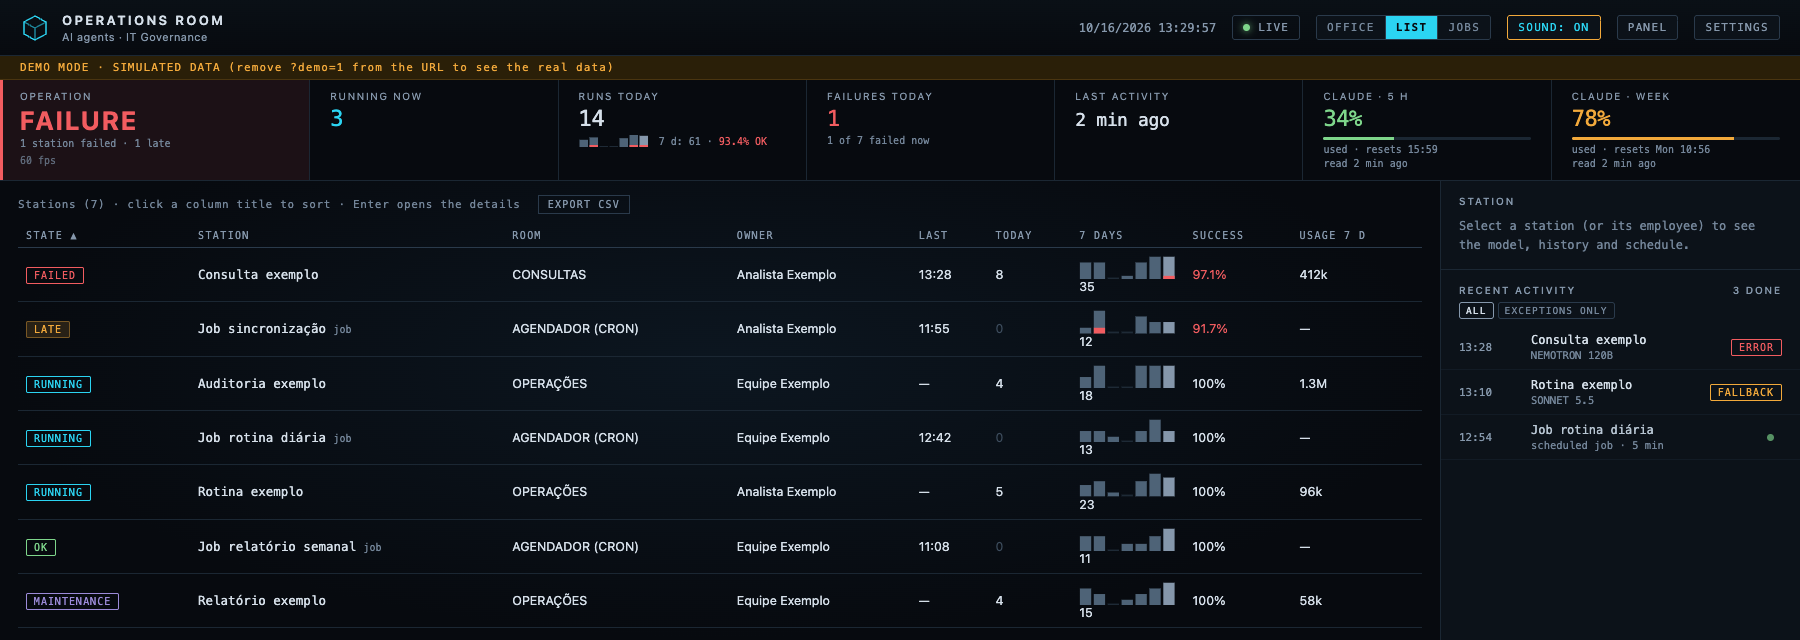
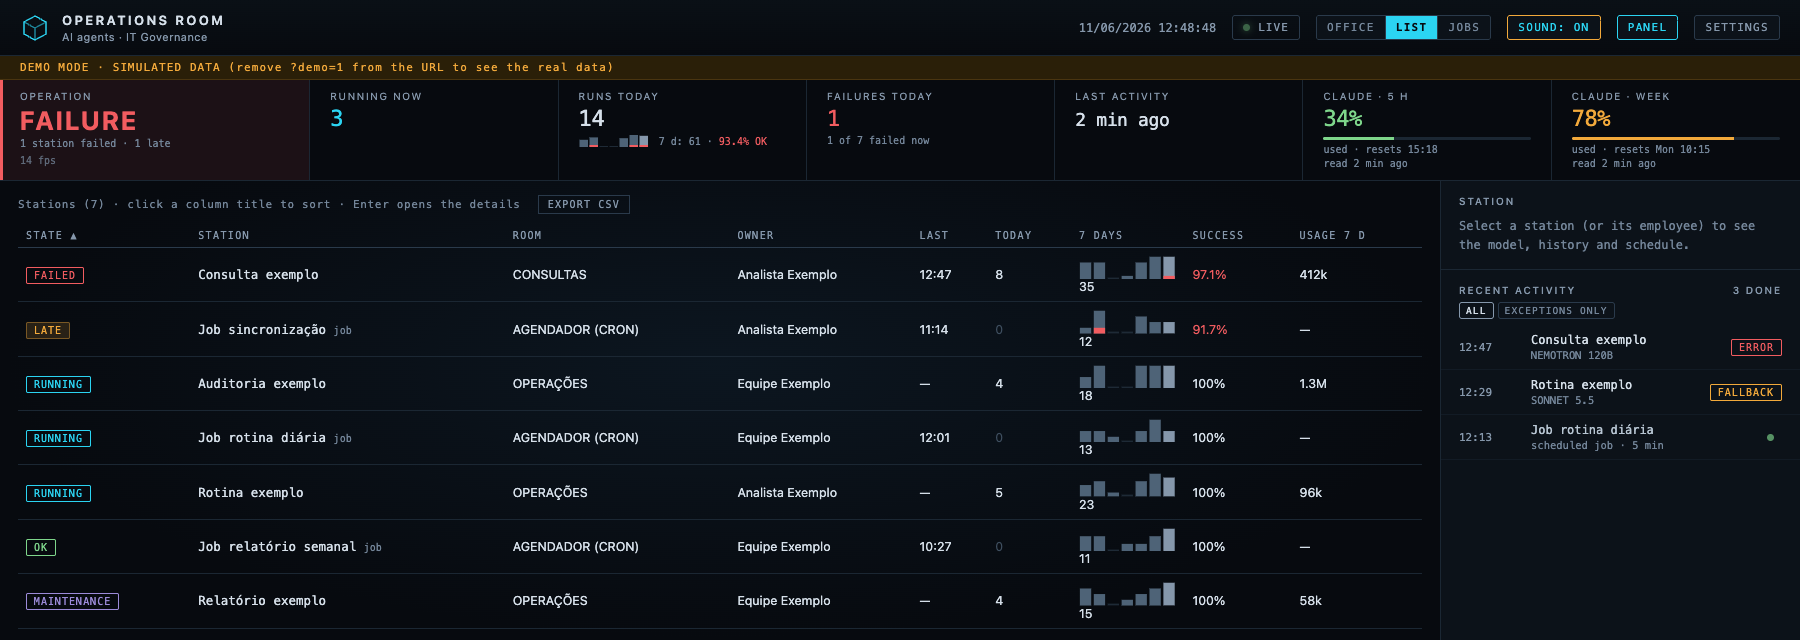
1.2.4: jobs de apoio ocultos pela chave opcional jobs_ocultos do sala_config.json (sem nome de job fixo no código) e capturas do README refeitas

diff --git a/web/js/base.js b/web/js/base.js
@@ -62,7 +62,7 @@ const manTxt=n=>n?' · '+T(n+' em manutenção (fora da conta)',n+' under mainte
 function sucTxt(su){if(!su||!su.execucoes)return T('sem execuções no período','no runs in the period')+manTxt(su&&su.manutencao);
   return fmtPct(su.pct)+' OK · '+(su.execucoes-su.falhas)+T(' de ',' of ')+su.execucoes+(su.falhas?' · <span style="color:var(--red)">'+su.falhas+T(' falha'+(su.falhas>1?'s':''),' failure'+(su.falhas>1?'s':''))+'</span>':'')+manTxt(su.manutencao)}
 const JSTL=EN?{running:'TALKING TO YOU',ok:'AVAILABLE',idle:'AVAILABLE',error:'AVAILABLE'}:{running:'ATENDENDO VOCÊ',ok:'DISPONÍVEL',idle:'DISPONÍVEL',error:'DISPONÍVEL'};
-const labelTec=id=>id.replace('cron:govti-','cron · ').replace('office365','o365').replace(/-/g,' ');
+const labelTec=id=>id.replace(/^cron:[a-z0-9]+-/,'cron · ').replace('office365','o365').replace(/-/g,' ');
 // nomes amigáveis: campo "nomes" do layout.json (o servidor manda em "titulo"); CONFIGURAR > Nomes > Técnicos volta ao id
 let TITULOS={};
 function titulosDe(s){const t={};[...(s.agents||[]),...(s.crons||[])].forEach(x=>{if(x.titulo)t[x.id]=x.titulo});return t}

diff --git a/server.py b/server.py
@@ -406,7 +406,15 @@ def atraso_job(jb, rodando, agora=None):
     return int(agora - prox)
 
 
-JOBS_OCULTOS = {"govti-vault-contagem", "govti-equipe-agidesk"}   # jobs de apoio da própria Sala (contagem da placa da Diretoria; números da sala GOVERNANÇA): rodam a cada 5 min e não aparecem nem no feed
+def _jobs_ocultos():
+    """Nomes de jobs do cron que a Sala não mostra nem no feed: a chave opcional "jobs_ocultos" (lista) do sala_config.json. Servem para os jobs de apoio da própria
+    Sala (contagem da placa do vault, números da equipe), que rodam a cada poucos minutos. Sem a chave (ou sem o arquivo), nenhum job é ocultado."""
+    try:
+        lista = json.load(open(CONFIG, encoding="utf8")).get("jobs_ocultos") or []
+        return {str(x) for x in lista} if isinstance(lista, list) else set()
+    except Exception:
+        return set()
+JOBS_OCULTOS = _jobs_ocultos()
 
 def cron_hist_sala():
     """Execuções de jobs guardadas pela própria Sala (vigia_sala.py): {job_id: [execução, ...]}. Sem o arquivo = vazio."""
@@ -935,7 +943,7 @@ def claude_uso():
     return out if ("five_hour" in out or "seven_day" in out) else None
 
 VAULT_CONT = os.path.join(HERMES, "data", "vault_contagem.json")   # gravado por vault_contagem.py (LaunchAgent ai.hermes.vault-contagem)
-EQUIPE_JSON = os.environ.get("SALA_EQUIPE") or os.path.join(HERMES, "data", "equipe_agidesk.json")   # gravado por equipe_agidesk.py (job de cron oculto govti-equipe-agidesk, a cada 5 min)
+EQUIPE_JSON = os.environ.get("SALA_EQUIPE") or os.path.join(HERMES, "data", "equipe_agidesk.json")   # gravado por equipe_agidesk.py (job de cron de apoio, a cada 5 min; ver "jobs_ocultos" no sala_config.json)
 EQUIPE_VELHO_S = 900
 
 
@@ -952,8 +960,8 @@ def equipe_painel():
     age = int(time.time() - (j.get("updated_at") or 0))
     velho = age > EQUIPE_VELHO_S
     if velho:
-        problema("equipe", "números da equipe do Agidesk defasados (lidos há %d min; job govti-equipe-agidesk)" % (age // 60),
-                 "Agidesk team numbers are stale (read %d min ago; job govti-equipe-agidesk)" % (age // 60))
+        problema("equipe", "números da equipe do Agidesk defasados (lidos há %d min; o job de apoio da equipe parou?)" % (age // 60),
+                 "Agidesk team numbers are stale (read %d min ago; has the team support job stopped?)" % (age // 60))
     hoje_ok = j.get("dia") == datetime.now().strftime("%Y-%m-%d")
     enc = j.get("encerrados_hoje_total")
     if enc is None and isinstance(j.get("encerrados_hoje"), dict):     # arquivo do formato antigo (por pessoa): só a soma sai daqui
@@ -1008,8 +1016,8 @@ def vault_painel():
         return None
     agora = time.time(); hoje = datetime.now().strftime("%Y-%m-%d"); total = j.get("total")
     if agora - (j.get("updated_at") or agora) > 1800:
-        problema("vault", "contagem do vault defasada (há %d min; job govti-vault-contagem)" % ((agora - j.get("updated_at")) // 60),
-                 "vault count is stale (%d min old; job govti-vault-contagem)" % ((agora - j.get("updated_at")) // 60))
+        problema("vault", "contagem do vault defasada (há %d min; o job de contagem do vault parou?)" % ((agora - j.get("updated_at")) // 60),
+                 "vault count is stale (%d min old; has the vault count job stopped?)" % ((agora - j.get("updated_at")) // 60))
     hist = j.get("historico") or {}
     antes = sorted(d for d in hist if d < hoje)
     out = {"total": total, "age_s": int(agora - (j.get("updated_at") or agora)),

diff --git a/testes_servidor.py b/testes_servidor.py
@@ -500,15 +500,23 @@ class Indicadores(Base):
         self.gravar(server.VIGIA, {"rodou_em": time.time(), "erro": "o último e-mail de aviso não saiu"})
         self.assertIn("vigia", f())
 
+    def test_jobs_ocultos_vem_do_config(self):
+        """Os jobs de apoio da Sala só somem da tela se o sala_config.json os listar (nada de nome de job fixo no código)."""
+        self.assertEqual(server._jobs_ocultos(), set())                         # sem o arquivo: nada oculto
+        self.gravar(server.CONFIG, {"jobs_ocultos": ["a", "b"]})
+        self.assertEqual(server._jobs_ocultos(), {"a", "b"})
+        self.gravar(server.CONFIG, {"jobs_ocultos": "texto solto"})             # formato errado: ignora, não quebra
+        self.assertEqual(server._jobs_ocultos(), set())
+
     def test_arquivo_faltando_avisa_antes_da_falha(self):
         os.makedirs(os.path.join(server.SCRIPTS_DIR, "agente_x"))
         self.catalogo({"consulta_a": {"modelo": "m1", "prompt": "agente_x/prompt.md",
                                       "pos_validacao": {"script": os.path.join(server.SCRIPTS_DIR, "valida.py")}}})
         self.jobs([self.job("rotina", script="roda.py"), self.job("desligado", script="nao_existe.py", enabled=False),
-                   self.job("govti-vault-contagem", script="oculto.py")])
+                   self.job("apoio-exemplo", script="oculto.py")])
         msg = lambda: " ".join(x["msg"] for x in self.estado()["saude"] if x["fonte"] == "arquivos")
         m = msg()
-        for esperado in ("job rotina", "job govti-vault-contagem", "prompt do agente consulta_a", "pós-validação do agente consulta_a"):
+        for esperado in ("job rotina", "job apoio-exemplo", "prompt do agente consulta_a", "pós-validação do agente consulta_a"):
             self.assertIn(esperado, m)
         self.assertNotIn("desligado", m)                                          # job desligado não roda: não acusa
         for f in ("roda.py", "oculto.py", "valida.py", "agente_x/prompt.md"):
@@ -573,13 +581,13 @@ class Vigia(Base):
         con.commit(); con.close()
         self.jobs([{"id": "j-rotina", "name": "rotina", "enabled": True, "schedule": {"expr": "0 * * * *"}, "script": "x.py",
                     "next_run_at": iso(-1800), "last_run_at": iso(900), "last_status": "ok"},
-                   {"id": "j-apoio", "name": "govti-vault-contagem", "enabled": True, "schedule": {"expr": "*/5 * * * *"}, "script": "y.py"}])
+                   {"id": "j-apoio", "name": "apoio-exemplo", "enabled": True, "schedule": {"expr": "*/5 * * * *"}, "script": "y.py"}])
         self.enviados = os.path.join(self.tmp, "enviados.txt")
         self.himalaya = os.path.join(self.tmp, "himalaya")
         with open(self.himalaya, "w") as f:
             f.write("#!/bin/sh\n[ -f %s/falhar ] && exit 1\necho '-----' >> %s\ncat >> %s\n" % (self.tmp, self.enviados, self.enviados))
         os.chmod(self.himalaya, 0o755)
-        self.gravar(server.CONFIG, {"alerta_email": {"para": "alguem@exemplo.com", "de": "sala@exemplo.com", "himalaya": self.himalaya}})
+        self.gravar(server.CONFIG, {"jobs_ocultos": ["apoio-exemplo"], "alerta_email": {"para": "alguem@exemplo.com", "de": "sala@exemplo.com", "himalaya": self.himalaya}})
         hoje = datetime.now()
         self.resumo = os.path.join(self.tmp, "resumo.json")                                # resumo desta semana já enviado
         self.gravar(self.resumo, {"semana": (hoje - timedelta(days=hoje.weekday())).strftime("%Y-%m-%d")})

diff --git a/sala_config.py b/sala_config.py
@@ -9,6 +9,7 @@ Chaves usadas:
   vault_path                 pasta do vault do Obsidian a contar (placa da DIRETORIA)
   responsavel_padrao         (opcional) responsável de toda estação sem "responsavel" no agentes.json (server.py)
   alerta_email               (opcional) {"para": um endereço só, "de", "conta_himalaya"}: e-mail do vigia_sala.py
+  jobs_ocultos               (opcional) lista de nomes de jobs do cron que a Sala não mostra nem no feed (jobs de apoio dela: contagem do vault, números da equipe)
   skills_prefixo_setor       (opcional) prefixo das suas skills próprias (ex.: "meu-"): a placa do vault mostra quantas skills têm esse prefixo no tooltip
 """
 import os, sys, json

diff --git a/README.md b/README.md
@@ -155,6 +155,7 @@ Sem o Hermes, funcionam igual: estação, estado, histórico, duração, falhas,
 - **Integrações:** a fila da equipe no Agidesk e a contagem de notas de um vault do Obsidian são configuradas num arquivo local (veja `config.exemplo.json`). A chave de acesso fica no Keychain do macOS, nunca no código.
 - **Aviso de versão nova:** a sala tem um número de versão (arquivo `VERSION`). A cada 2 horas ela confere o `VERSION` publicado aqui no GitHub e, se houver um maior que o seu, mostra uma tarja amarela no topo. Para desligar, `"verificar_atualizacao": false` no arquivo local de configuração.
 - **Responsável:** `"responsavel_padrao"` no arquivo local de configuração vale para todas as estações; `"responsavel"` na entrada de um agente no `agentes.json` vale só para ele.
+- **Jobs de apoio ocultos:** `"jobs_ocultos"` (lista de nomes de jobs do cron) no arquivo local de configuração tira da planta e do feed os jobs de apoio da própria sala, como o que atualiza a contagem do vault. Sem a chave, nenhum job é ocultado.
 - **Janela de manutenção:** pelo `manutencao.py` (a estação é o nome do agente ou `cron:<nome do job>`):
 
 ```bash

diff --git a/README.en.md b/README.en.md
@@ -155,6 +155,7 @@ Without Hermes, these work the same: station, state, history, duration, failures
 - **Integrations:** the team queue in Agidesk and the note count of an Obsidian vault are set up in a local file (see `config.exemplo.json`). The access key lives in the macOS Keychain, never in the code.
 - **New-version notice:** the room has a version number (the `VERSION` file). Every 2 hours it checks the `VERSION` published here on GitHub and, if it is higher than yours, shows a yellow banner at the top. To turn it off, set `"verificar_atualizacao": false` in the local config file.
 - **Owner:** `"responsavel_padrao"` in the local config file applies to every station; `"responsavel"` in an agent's entry in `agentes.json` applies to that agent only.
+- **Hidden support jobs:** `"jobs_ocultos"` (a list of cron job names) in the local config file removes the room's own support jobs, such as the one that refreshes the vault count, from the floor plan and the feed. Without the key, no job is hidden.
 - **Maintenance window:** with `manutencao.py` (the station is the agent's name or `cron:<job name>`):
 
 ```bash

diff --git a/docs/FORMATO.md b/docs/FORMATO.md
@@ -185,5 +185,6 @@ Com o Hermes instalado, a sala também confere se existem o script de cada job a
 Fica fora do repositório (modelo em `config.exemplo.json`). Além das chaves do Agidesk e do vault:
 
 - `responsavel_padrao`: responsável de toda estação sem `responsavel` próprio.
+- `jobs_ocultos` (opcional): lista de nomes de jobs do cron que a sala não mostra na planta nem no feed (jobs de apoio dela, como a contagem do vault). Sem a chave, nenhum job é ocultado.
 - `alerta_email`: `{"para": "um endereço só", "de": "remetente", "conta_himalaya": "conta de envio"}`. Sem esta chave, o vigia
   só guarda o histórico. Mais de um endereço em `para` é recusado.
